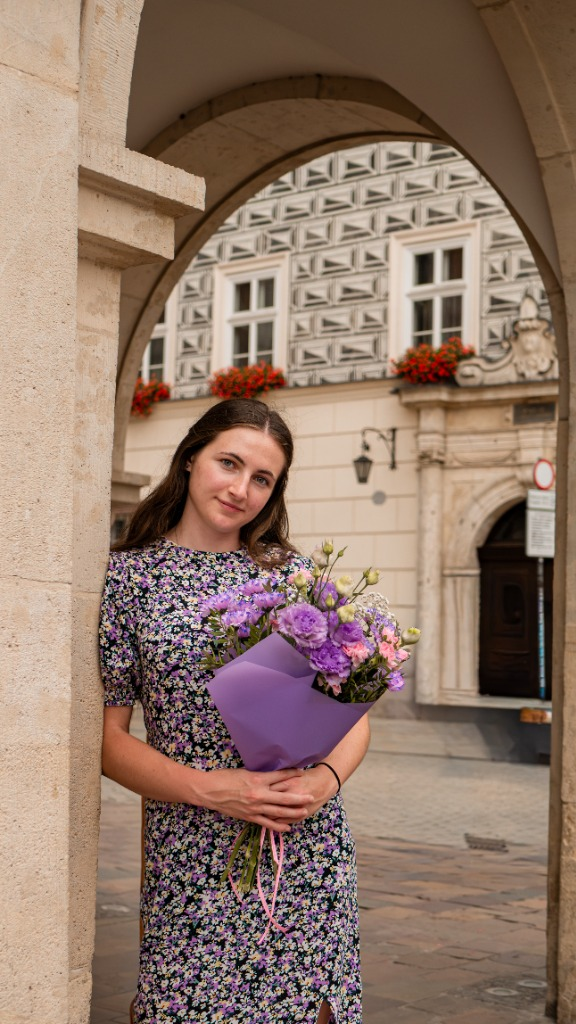
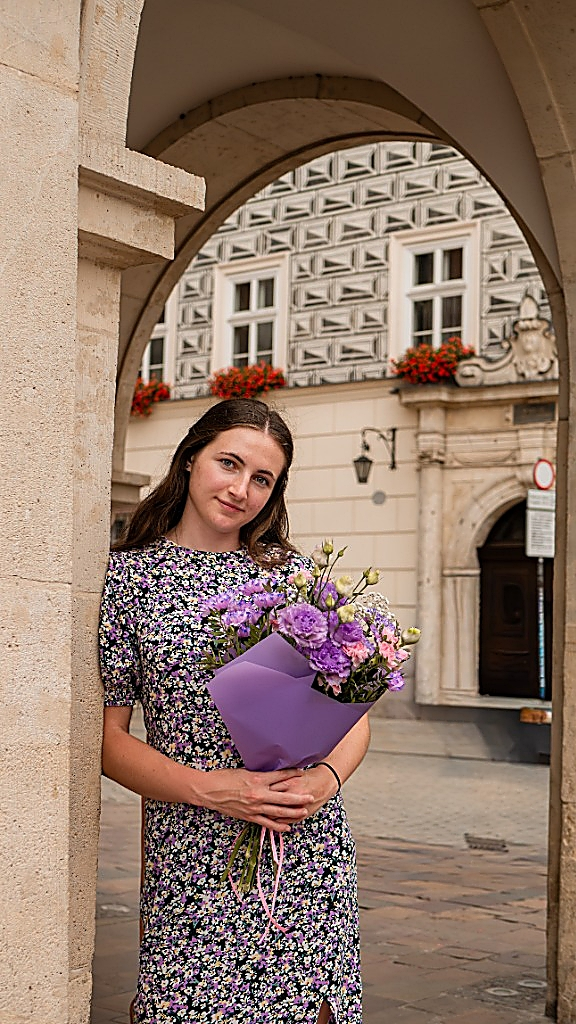
Optimize photo sharpness and set unoptimized prop on Next Image component

diff --git a/src/components/sections/About.tsx b/src/components/sections/About.tsx
@@ -26,9 +26,9 @@ export default function About() {
             <Image
               src="/images/ola-portrait.jpg"
               alt="Zdjęcie Oli — mentorki egzaminacyjnej E8 i Matury"
-              width={640}
-              height={800}
-              loading="lazy"
+              width={576}
+              height={1024}
+              unoptimized
               className="w-full rounded-[2.5rem] object-cover shadow-float ring-1 ring-white aspect-[4/5]"
             />
             <motion.div
